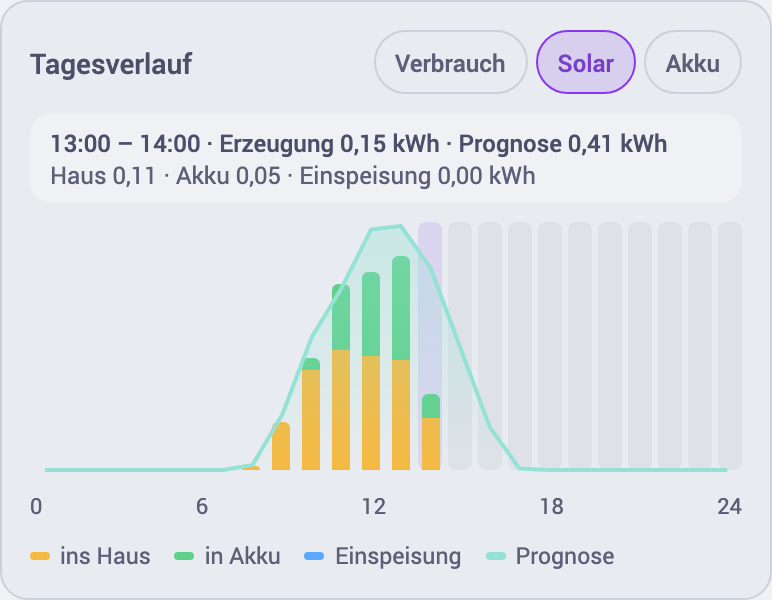
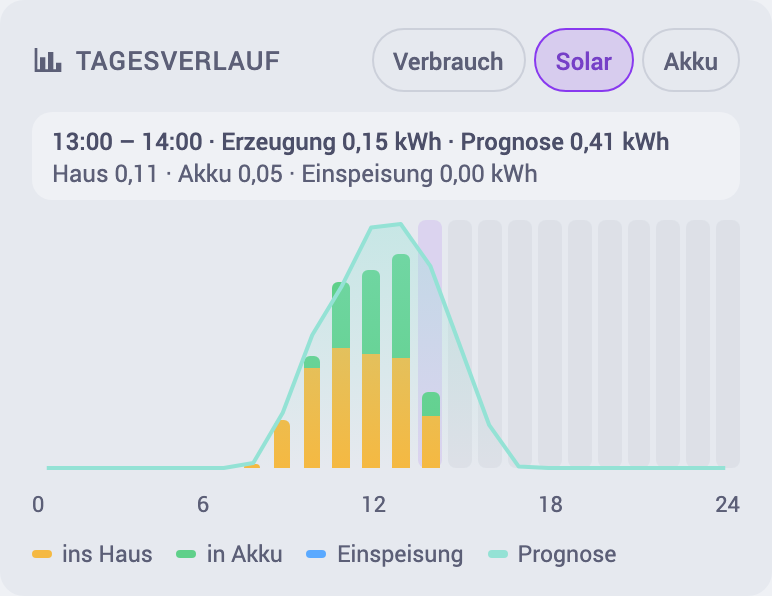
0.1.1: look aligned with the Proxmox and Tibber cards

diff --git a/src/styles.js b/src/styles.js
@@ -15,7 +15,7 @@ export const STYLE = `
   --eoc-text: var(--primary-text-color, #212121);
   --eoc-sub: var(--secondary-text-color, #727272);
   --eoc-card: var(--ha-card-background, var(--card-background-color, #fff));
-  --eoc-tile: color-mix(in srgb, var(--eoc-text) 4%, var(--eoc-card));
+  --eoc-tile: var(--secondary-background-color, rgba(127, 127, 127, 0.08));
   --eoc-border: var(--divider-color, rgba(127, 127, 127, 0.25));
   --eoc-line: var(--divider-color, rgba(127, 127, 127, 0.25));
   --eoc-accent: var(--eoc-accent-color, var(--primary-color, #03a9f4));
@@ -24,9 +24,11 @@ export const STYLE = `
 ha-card { padding: 16px; display: flex; flex-direction: column; gap: 14px; color: var(--eoc-text); overflow: hidden; }
 button { font: inherit; color: inherit; }
 button:focus-visible { outline: 2px solid var(--eoc-accent); outline-offset: 2px; }
-.tile { border-radius: 14px; background: var(--eoc-tile); border: 1px solid var(--eoc-border); padding: 14px; display: flex; flex-direction: column; gap: 10px; min-width: 0; }
+.tile { border-radius: 12px; background: var(--eoc-tile); padding: 14px 16px; display: flex; flex-direction: column; gap: 10px; min-width: 0; }
 .tile-head { display: flex; justify-content: space-between; align-items: baseline; gap: 8px; }
-.tile-title { font-size: 14px; font-weight: 500; }
+.tile-title { display: flex; align-items: center; gap: 6px; font-size: 13px; font-weight: 500; text-transform: uppercase; letter-spacing: .04em; color: var(--eoc-sub); }
+.icon { width: 18px; height: 18px; fill: currentColor; flex: none; }
+.tile-title .icon { width: 16px; height: 16px; }
 .muted { color: var(--eoc-sub); }
 .small { font-size: 12px; }
 .empty { font-size: 12.5px; color: var(--eoc-sub); }
@@ -38,19 +40,23 @@ button:focus-visible { outline: 2px solid var(--eoc-accent); outline-offset: 2px
 
 /* header */
 .header { display: flex; align-items: center; gap: 12px; }
-.logo { width: 42px; height: 42px; border-radius: 12px; flex: none; display: flex; align-items: center; justify-content: center; background: var(--eoc-accent-soft); color: var(--eoc-accent); --mdc-icon-size: 22px; }
+.logo { width: 40px; height: 40px; border-radius: 50%; flex: none; display: grid; place-items: center; color: var(--c); background: color-mix(in srgb, var(--c) 16%, transparent); --mdc-icon-size: 22px; }
+.logo .icon { width: 22px; height: 22px; }
 .titles { flex: 1 1 0; min-width: 72px; }
-.name { font-size: 17px; font-weight: 500; line-height: 22px; overflow: hidden; text-overflow: ellipsis; white-space: nowrap; }
-.sub { font-size: 12.5px; line-height: 17px; color: var(--eoc-sub); overflow: hidden; text-overflow: ellipsis; white-space: nowrap; }
-.pill { align-self: flex-start; flex: 0 0 auto; max-width: 62%; min-width: 0; overflow: hidden; text-overflow: ellipsis; display: flex; align-items: center; gap: 6px; padding: 6px 10px; border-radius: 999px; font-size: 12px; font-weight: 500; white-space: nowrap; background: color-mix(in srgb, var(--c) 18%, transparent); color: color-mix(in srgb, var(--c) 62%, var(--eoc-text)); }
-.pill::before { content: ""; flex: none; width: 7px; height: 7px; border-radius: 50%; background: var(--c); }
+.name { font-size: 16px; font-weight: 500; line-height: 1.25; overflow: hidden; text-overflow: ellipsis; white-space: nowrap; }
+.sub { font-size: 12px; color: var(--eoc-sub); overflow: hidden; text-overflow: ellipsis; white-space: nowrap; }
+.pill { align-self: flex-start; margin-top: 1px; flex: 0 1 auto; min-width: 0; max-width: 62%; overflow: hidden; display: inline-flex; align-items: center; gap: 6px; padding: 3px 10px; border-radius: 12px; font-size: 12px; font-weight: 500; white-space: nowrap; background: color-mix(in srgb, var(--c) 15%, transparent); color: color-mix(in srgb, var(--c) 62%, var(--eoc-text)); }
+.pill > span:last-child { overflow: hidden; text-overflow: ellipsis; }
+.dot { width: 7px; height: 7px; border-radius: 50%; background: var(--c); flex: none; display: inline-block; }
 
-.close { flex: none; width: 44px; height: 44px; margin: -8px -8px 0 -4px; align-self: flex-start; border: 0; border-radius: 12px; background: transparent; color: var(--eoc-sub); cursor: pointer; display: flex; align-items: center; justify-content: center; }
+.zoom { flex: none; cursor: pointer; width: 40px; height: 40px; margin: -4px -8px -4px 0; padding: 0; border: 0; border-radius: 50%; background: transparent; display: grid; place-items: center; color: var(--eoc-sub); }
+.zoom .icon { width: 20px; height: 20px; }
+.zoom:hover { background: color-mix(in srgb, var(--eoc-sub) 16%, transparent); color: var(--eoc-text); }
 
 /* live flow */
 .flow { padding: 10px 0 8px; gap: 0; }
 .flow-head { display: flex; align-items: center; justify-content: space-between; padding: 0 14px 4px; font-size: 13px; }
-.flow-head .live { font-weight: 500; color: var(--eoc-sub); display: flex; align-items: center; gap: 6px; }
+.flow-head .live { gap: 6px; }
 .flow-head .live::before { content: ""; width: 6px; height: 6px; border-radius: 50%; background: var(--eoc-bat); }
 .stage { position: relative; width: 100%; max-width: 388px; height: 324px; margin: 0 auto; }
 .stage svg.lines { position: absolute; inset: 0; width: 100%; height: 100%; overflow: visible; }
@@ -70,7 +76,7 @@ button:focus-visible { outline: 2px solid var(--eoc-accent); outline-offset: 2px
 
 /* period switcher */
 .period { display: flex; flex-direction: column; gap: 6px; }
-.seg { display: flex; padding: 3px; border-radius: 12px; background: var(--eoc-tile); border: 1px solid var(--eoc-border); }
+.seg { display: flex; padding: 3px; border-radius: 12px; background: var(--eoc-tile); }
 .seg button { flex: 1 1 0; min-width: 0; height: 38px; border: 0; border-radius: 9px; background: transparent; font-weight: 500; font-size: 13px; cursor: pointer; }
 .seg button[aria-pressed="true"] { background: var(--eoc-accent); color: var(--text-primary-color, var(--eoc-card)); }
 .nav { display: flex; align-items: center; gap: 4px; }
@@ -142,7 +148,7 @@ button:focus-visible { outline: 2px solid var(--eoc-accent); outline-offset: 2px
 
 /* footer */
 .foot { display: grid; grid-template-columns: repeat(3, minmax(0, 1fr)); gap: 8px; }
-.foot .tile { padding: 10px; gap: 2px; border-radius: 12px; }
+.foot .tile { padding: 10px 12px; gap: 2px; }
 .foot .k { font-size: 11.5px; color: var(--eoc-sub); white-space: nowrap; overflow: hidden; text-overflow: ellipsis; }
 .foot .v { font-size: 15px; font-weight: 700; white-space: nowrap; }
 .foot .v span { font-size: 11.5px; font-weight: 400; color: var(--eoc-sub); }
@@ -152,15 +158,17 @@ button:focus-visible { outline: 2px solid var(--eoc-accent); outline-offset: 2px
 .fc b { flex: none; color: var(--eoc-text); font-weight: 500; }
 
 /* mini card */
-.mini { padding: 12px 12px 12px 14px; flex-direction: row; align-items: center; gap: 12px; }
-.mini .socring { position: relative; width: 46px; height: 46px; flex: none; }
-.mini .socring span { position: absolute; inset: 0; display: flex; align-items: center; justify-content: center; font-size: 11.5px; font-weight: 700; }
+.mini { padding: 12px 12px 12px 16px; flex-direction: row; align-items: center; gap: 14px; }
+.mini .socring { position: relative; width: 56px; height: 56px; flex: none; }
+.mini .socring svg { width: 56px; height: 56px; }
+.mini .socring span { position: absolute; inset: 0; display: flex; align-items: center; justify-content: center; font-size: 15px; font-weight: 600; }
 .mini .body { flex: 1 1 auto; min-width: 0; display: flex; flex-direction: column; gap: 4px; }
 .mini .row1 { display: flex; align-items: center; gap: 8px; min-width: 0; }
-.mini .row1 .name { font-size: 14.5px; }
-.mini .pill { align-self: center; padding: 3px 8px; font-size: 11px; }
-.mini .pill::before { display: none; }
-.mini .row2 { display: flex; gap: 10px; font-size: 12px; color: var(--eoc-sub); white-space: nowrap; overflow: hidden; }
-.mini .row2 b { font-weight: 700; }
-.mini .open { width: 44px; height: 44px; flex: none; border: 0; border-radius: 12px; background: var(--eoc-accent-soft); color: var(--eoc-accent); display: flex; align-items: center; justify-content: center; cursor: pointer; }
+.mini .row1 .name { flex: none; max-width: 65%; }
+.mini .row1 .pill { max-width: none; flex: 0 1 auto; }
+.mini .pill { align-self: center; margin-top: 0; }
+.mini .row2 { display: flex; gap: 10px; font-size: 13px; color: var(--eoc-sub); white-space: nowrap; overflow: hidden; }
+.mini .row2 b { font-weight: 500; }
+.mini .zoom { width: 44px; height: 44px; margin: 0; border-radius: 12px; background: var(--eoc-tile); }
+.mini .zoom[aria-expanded="true"] .icon { transform: none; }
 `;

diff --git a/src/sections.js b/src/sections.js
@@ -4,6 +4,7 @@ import { renderFlow } from "./flow.js";
 import { periodLabel } from "./period.js";
 import { esc, fmtDay, fmtEnergy, fmtNum, fmtTime, fmtWeekday } from "./shared.js";
 import { nightBlocks } from "./sun.js";
+import { svgIcon } from "./icons.js";
 
 const STATUS_COLOR = {
   grid_house: "var(--eoc-imp)",
@@ -13,27 +14,25 @@ const STATUS_COLOR = {
   export: "var(--eoc-exp)",
 };
 
-const bolt =
-  '<svg width="22" height="22" viewBox="0 0 24 24" fill="none" stroke="currentColor" stroke-width="2" stroke-linecap="round" stroke-linejoin="round" aria-hidden="true"><path d="M13 2L4 14h7l-1 8 9-12h-7z"/></svg>';
 const chevron = (d) =>
   `<svg width="18" height="18" viewBox="0 0 24 24" fill="none" stroke="currentColor" stroke-width="2.2" stroke-linecap="round" stroke-linejoin="round" aria-hidden="true"><path d="${d}"/></svg>`;
 
 export const statusPill = (ctx) =>
   ctx.status
-    ? `<div class="pill" style="--c:${STATUS_COLOR[ctx.status]}">${esc(ctx.t(`status_${ctx.status}`))}</div>`
+    ? `<span class="pill" style="--c:${STATUS_COLOR[ctx.status]}"><span class="dot"></span><span>${esc(ctx.t(`status_${ctx.status}`))}</span></span>`
     : "";
 
 export function header(ctx) {
   const { config, t } = ctx;
-  const logo = config.icon ? `<ha-icon icon="${esc(config.icon)}"></ha-icon>` : bolt;
+  const logo = config.icon ? `<ha-icon icon="${esc(config.icon)}"></ha-icon>` : svgIcon("flash");
   return `<div class="header">
-    <div class="logo">${logo}</div>
+    <div class="logo" style="--c:${STATUS_COLOR[ctx.status] || "var(--eoc-pv)"}">${logo}</div>
     <div class="titles">
       <div class="name">${esc(config.name || t("title"))}</div>
       ${config.subtitle ? `<div class="sub">${esc(config.subtitle)}</div>` : ""}
     </div>
     ${statusPill(ctx)}
-    ${config._dialog ? `<button type="button" class="close" data-close aria-label="${esc(t("close"))}">${chevron("M6 6l12 12M18 6L6 18")}</button>` : ""}
+    ${config._dialog ? `<button type="button" class="zoom" data-close aria-label="${esc(t("close"))}">${svgIcon("close")}</button>` : ""}
   </div>`;
 }
 
@@ -97,7 +96,7 @@ export function power(ctx) {
     )
     .join("");
   return `<div class="tile">
-    <div class="tile-head"><div class="tile-title">${esc(t("power_title"))}</div><div class="muted small">${esc(ctx.isCurrentPeriod ? t("today") : periodLabel(ctx.range, lang))} · kW</div></div>
+    <div class="tile-head"><div class="tile-title">${svgIcon("chart")}<span>${esc(t("power_title"))}</span></div><div class="muted small">${esc(ctx.isCurrentPeriod ? t("today") : periodLabel(ctx.range, lang))} · kW</div></div>
     <div class="readout three" aria-live="polite" data-pro>
       <div class="r-title">${esc(powerTitle(ctx, i))}</div><div class="r-line">${esc(l1)}</div><div class="r-line">${esc(l2)}</div>
     </div>
@@ -118,7 +117,7 @@ const legend = (segs, lang) =>
 
 export function balance(ctx) {
   const { t, lang, energy } = ctx;
-  const head = `<div class="tile-head"><div class="tile-title">${esc(t("balance"))}</div><div class="muted small">${esc(periodLabel(ctx.range, lang))}</div></div>`;
+  const head = `<div class="tile-head"><div class="tile-title">${svgIcon("pie")}<span>${esc(t("balance"))}</span></div><div class="muted small">${esc(periodLabel(ctx.range, lang))}</div></div>`;
   if (!energy) return `<div class="tile">${head}<div class="empty">${esc(t("loading"))}</div></div>`;
   if (!energy.hasData) return `<div class="tile">${head}<div class="empty">${esc(t("no_stats"))}</div></div>`;
   const s = energy.total;
@@ -228,7 +227,7 @@ export function history(ctx) {
         `<button type="button" data-act="mode" data-v="${m}" aria-pressed="${m === state.mode}">${esc(t(`mode_${m}`))}</button>`,
     )
     .join("");
-  const head = `<div class="tile-head" style="align-items:center"><div class="tile-title">${esc(title)}</div><div class="modes" role="group" aria-label="${esc(t("view"))}">${modes}</div></div>`;
+  const head = `<div class="tile-head" style="align-items:center"><div class="tile-title">${svgIcon("bars")}<span>${esc(title)}</span></div><div class="modes" role="group" aria-label="${esc(t("view"))}">${modes}</div></div>`;
   if (!ctx.energy) return `<div class="tile">${head}<div class="empty">${esc(t("loading"))}</div></div>`;
   if (!ctx.energy.hasData) return `<div class="tile">${head}<div class="empty">${esc(t("no_stats"))}</div></div>`;
   const units = ctx.units;

diff --git a/src/energy-overview-card.js b/src/energy-overview-card.js
@@ -21,6 +21,7 @@ import { deriveStatus, forecastEntries, prefsLive, readLive } from "./energy.js"
 import { canGoForward, isCurrent, periodRange, shiftAnchor } from "./period.js";
 import { socColor } from "./flow.js";
 import { detectConfig, EnergyOverviewCardEditor, EnergyOverviewMiniCardEditor } from "./editor.js";
+import { svgIcon } from "./icons.js";
 import "./popup.js";
 import { defaultSel, historyReadout, historyUnits, powerTitle, RENDERERS, statusPill } from "./sections.js";
 import { DEFAULTS, esc, fmtPower, HISTORY_MODES, langOf, SECTIONS, translator } from "./shared.js";
@@ -372,10 +373,8 @@ export class EnergyOverviewCard extends HTMLElement {
   }
 }
 
-const expandIcon =
-  '<svg width="18" height="18" viewBox="0 0 24 24" fill="none" stroke="currentColor" stroke-width="2.2" stroke-linecap="round" stroke-linejoin="round" aria-hidden="true"><path d="M15 3h6v6M9 21H3v-6M21 3l-7 7M3 21l7-7"/></svg>';
-const collapseIcon =
-  '<svg width="18" height="18" viewBox="0 0 24 24" fill="none" stroke="currentColor" stroke-width="2.2" stroke-linecap="round" stroke-linejoin="round" aria-hidden="true"><path d="M4 14h6v6M20 10h-6V4M14 10l7-7M3 21l7-7"/></svg>';
+const expandIcon = svgIcon("expand");
+const collapseIcon = svgIcon("collapse");
 
 /**
  * One row: SoC ring, name, status, PV / grid now and today's self-sufficiency. The button opens the main card
@@ -483,8 +482,8 @@ export class EnergyOverviewMiniCard extends HTMLElement {
       : "";
     const inline = this._config.popup === false;
     const btn = inline
-      ? `<button type="button" class="open" data-open aria-expanded="${this._expanded}" aria-label="${esc(t("open"))}">${this._expanded ? collapseIcon : expandIcon}</button>`
-      : `<button type="button" class="open" data-open aria-haspopup="dialog" aria-label="${esc(t("open"))}">${expandIcon}</button>`;
+      ? `<button type="button" class="zoom" data-open aria-expanded="${this._expanded}" aria-label="${esc(t("open"))}">${this._expanded ? collapseIcon : expandIcon}</button>`
+      : `<button type="button" class="zoom" data-open aria-haspopup="dialog" aria-label="${esc(t("open"))}">${expandIcon}</button>`;
     const row = `<ha-card class="mini">
       <div class="socring">
         <svg width="46" height="46" viewBox="0 0 46 46" aria-hidden="true">

diff --git a/src/icons.js b/src/icons.js
@@ -1,0 +1,20 @@
+// Material Design Icons (filled, 24 × 24) as in the Proxmox and Tibber cards, plus two simple shapes of our own.
+export const ICONS = {
+  flash: "M7,2V13H10V22L17,10H13L17,2H7Z",
+  chart: "M16,11.78L20.24,4.45L21.97,5.45L16.74,14.5L10.23,10.75L5.46,19H22V21H2V3H4V17.54L9.5,8L16,11.78Z",
+  bars: "M22,21H2V3H4V19H6V10H10V19H12V6H16V19H18V14H22V21Z",
+  pie: "M11,2.05A10,10 0 1,0 21.95,13H11V2.05M13,2.05V11H21.95A10,10 0 0,0 13,2.05Z",
+  tower:
+    "M8.28,5.45L6.5,4.55L7.76,2H16.23L17.5,4.55L15.72,5.44L15,4H9L8.28,5.45M18.62,8H14.09L13.3,5H10.7L9.91,8H5.38L4.1,10.55L5.89,11.44L6.62,10H17.38L18.1,11.45L19.89,10.56L18.62,8M17.77,22H15.7L15.46,21.1L12,15.9L8.53,21.1L8.3,22H6.23L9.12,11H11.19L10.83,12.35L12,14.1L13.16,12.35L12.81,11H14.88L17.77,22M11.4,15L10.5,13.65L9.32,18.13L11.4,15M14.68,18.12L13.5,13.64L12.6,15L14.68,18.12Z",
+  battery:
+    "M16.67,4H15V2H9V4H7.33A1.33,1.33 0 0,0 6,5.33V20.67C6,21.4 6.6,22 7.33,22H16.67A1.33,1.33 0 0,0 18,20.67V5.33C18,4.6 17.4,4 16.67,4M11,20V14.5H9L13,7V12.5H15",
+  expand:
+    "M10,21V19H6.41L10.91,14.5L9.5,13.09L5,17.59V14H3V21H10M14.5,10.91L19,6.41V10H21V3H14V5H17.59L13.09,9.5L14.5,10.91Z",
+  collapse:
+    "M19.5,3.09L15,7.59V4H13V11H20V9H16.41L20.91,4.5L19.5,3.09M4,13V15H7.59L3.09,19.5L4.5,20.91L9,16.41V20H11V13H4Z",
+  close:
+    "M19,6.41L17.59,5L12,10.59L6.41,5L5,6.41L10.59,12L5,17.59L6.41,19L12,13.41L17.59,19L19,17.59L13.41,12L19,6.41Z",
+};
+
+export const svgIcon = (name, cls = "icon") =>
+  `<svg class="${cls}" viewBox="0 0 24 24" aria-hidden="true"><path d="${ICONS[name]}"></path></svg>`;

diff --git a/src/flow.js b/src/flow.js
@@ -108,7 +108,7 @@ export function renderFlow(live, opts) {
   const fc = opts.forecastToday;
   return `
   <div class="tile flow">
-    <div class="flow-head"><span class="live">${esc(t("live"))}</span><span class="muted small">${esc(opts.time || "")}</span></div>
+    <div class="flow-head"><span class="tile-title live">${esc(t("live"))}</span><span class="muted small">${esc(opts.time || "")}</span></div>
     <div class="stage" role="img" aria-label="${esc(aria)}">
       <svg class="lines" viewBox="0 0 ${W} ${H}" preserveAspectRatio="none" aria-hidden="true">
         ${Object.values(PATHS)

diff --git a/CHANGELOG.md b/CHANGELOG.md
@@ -1,5 +1,11 @@
 # Changelog
 
+## 0.1.1 (2026-11-15)
+
+- Look aligned with the Proxmox and Tibber cards: round 40 px logo in the status colour with an MDI icon, status
+  as a chip, uppercase section titles with icons, panels on the theme's secondary background without a border,
+  round close button; mini card with a 56 px ring, the name kept whole and the status shortened instead
+
 ## 0.1.0 (2026-11-15)
 
 First release.
